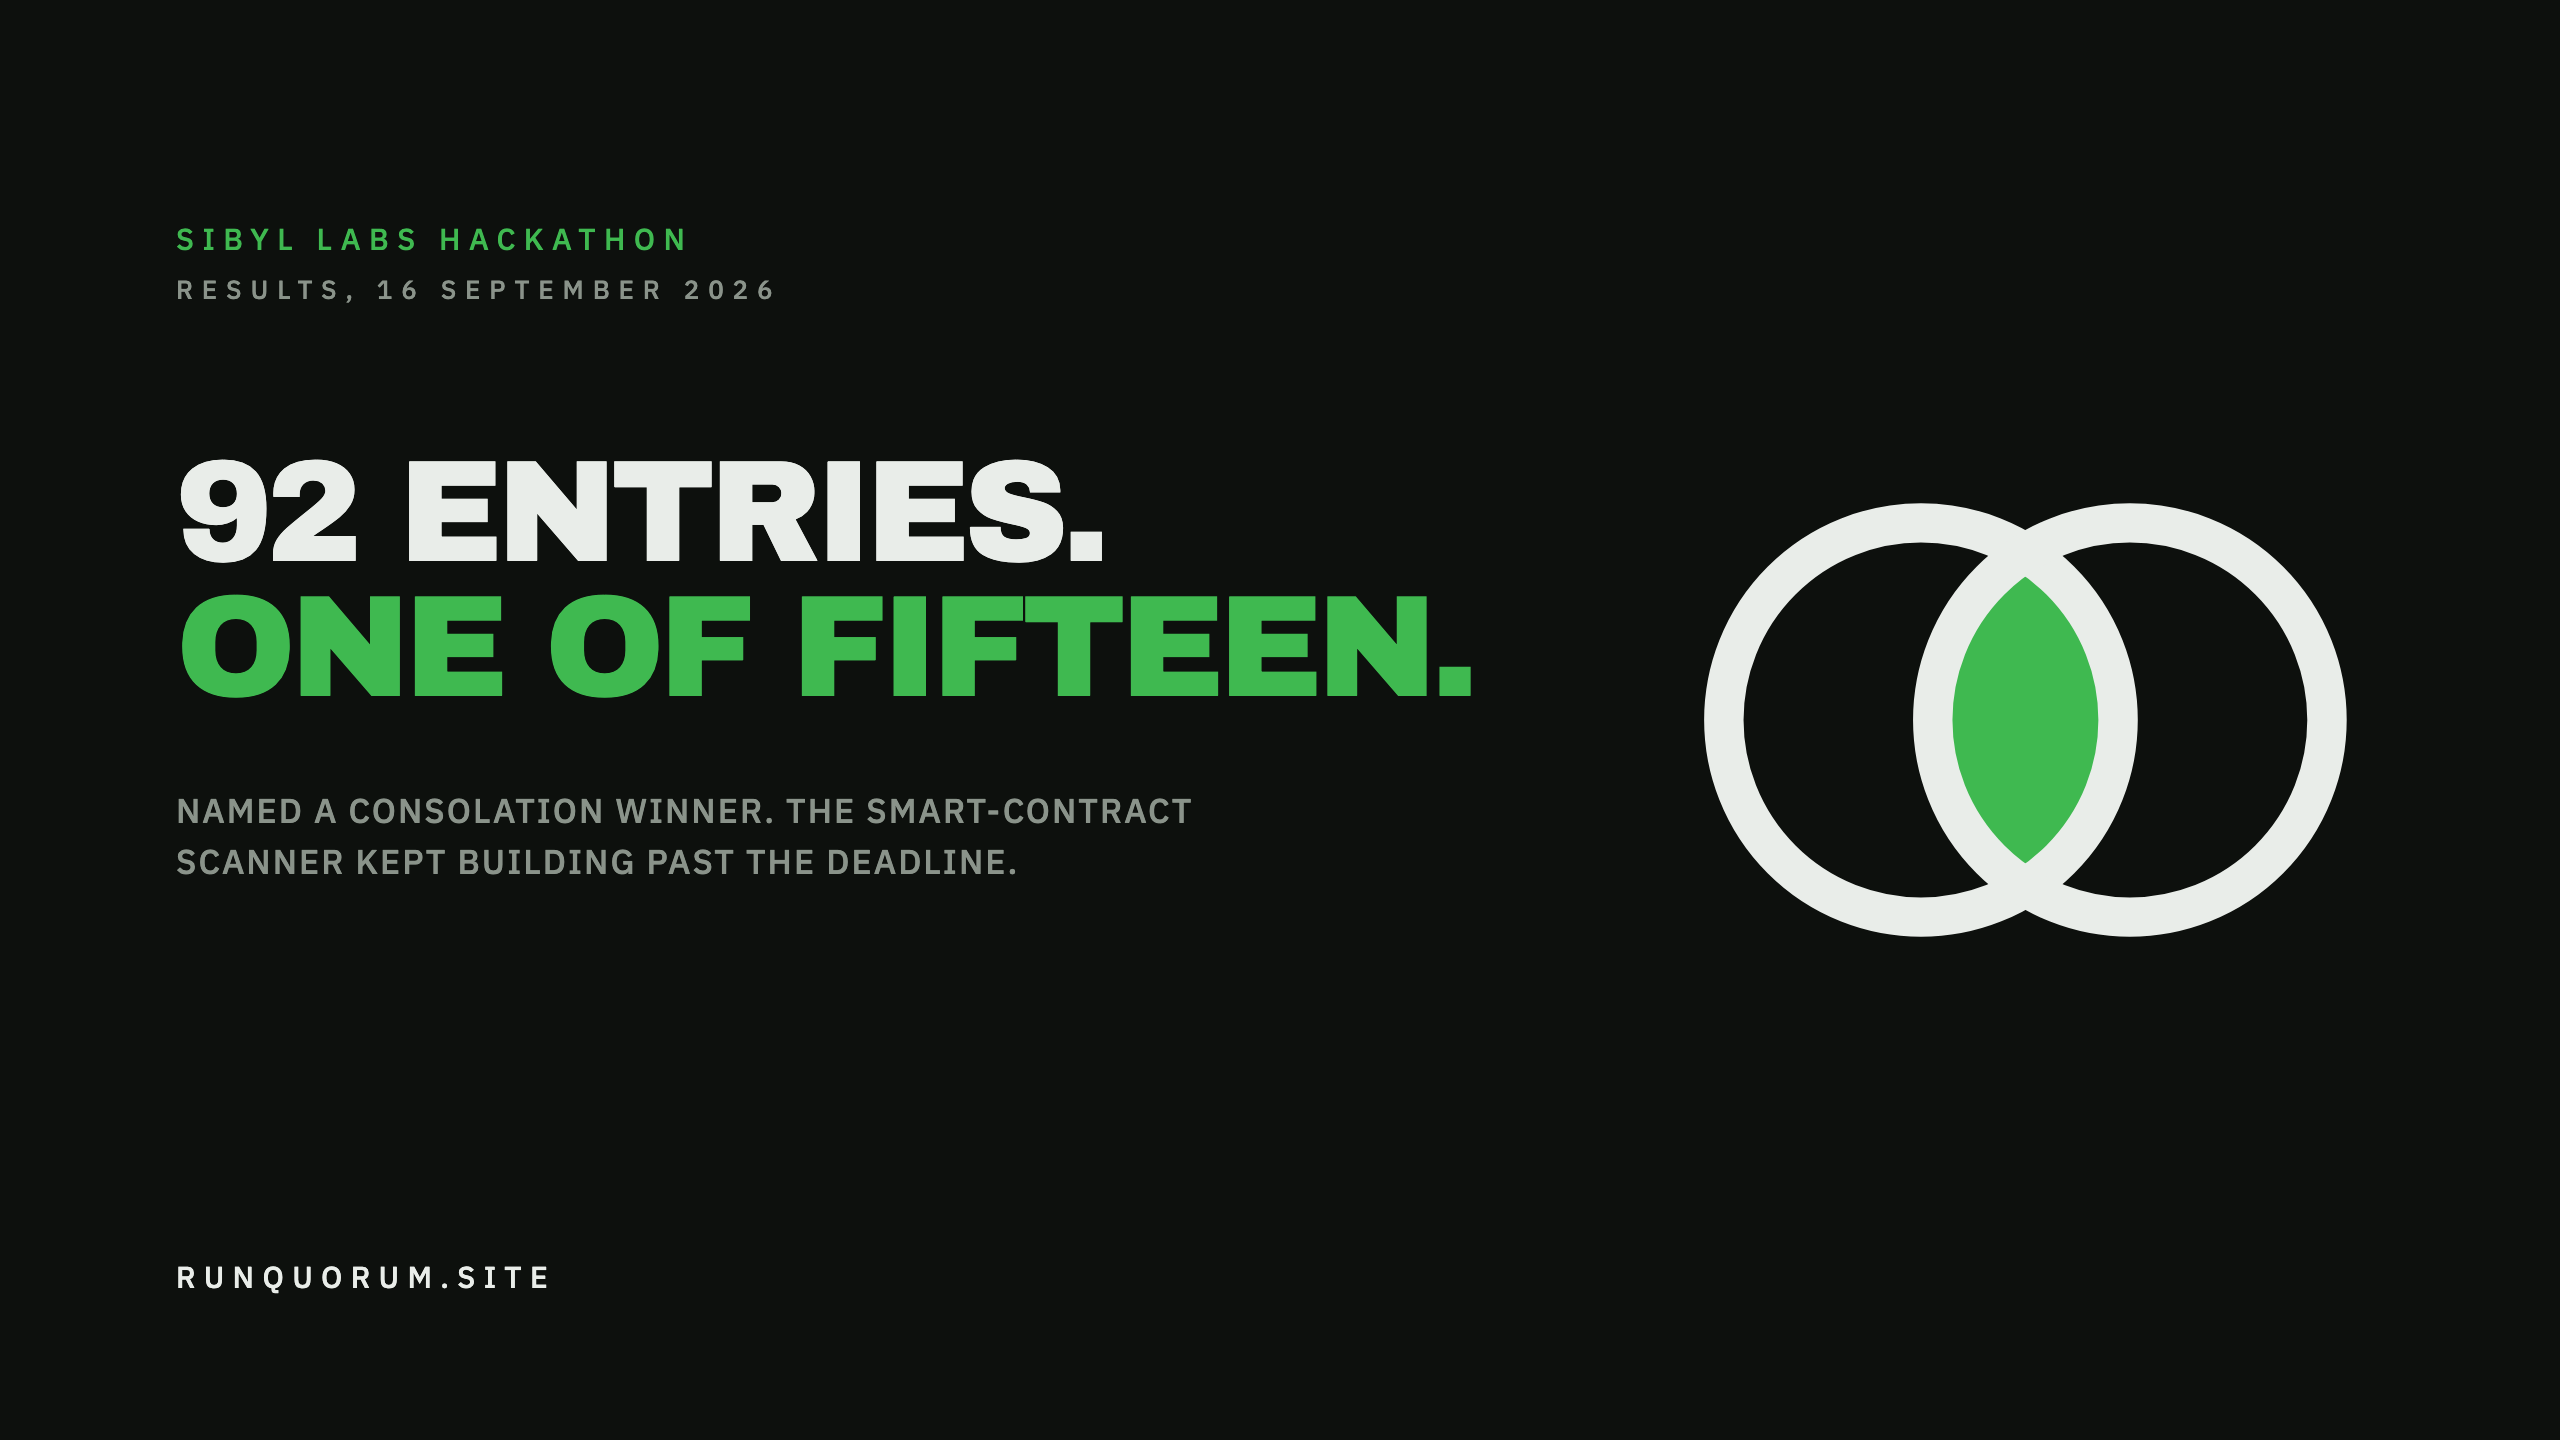
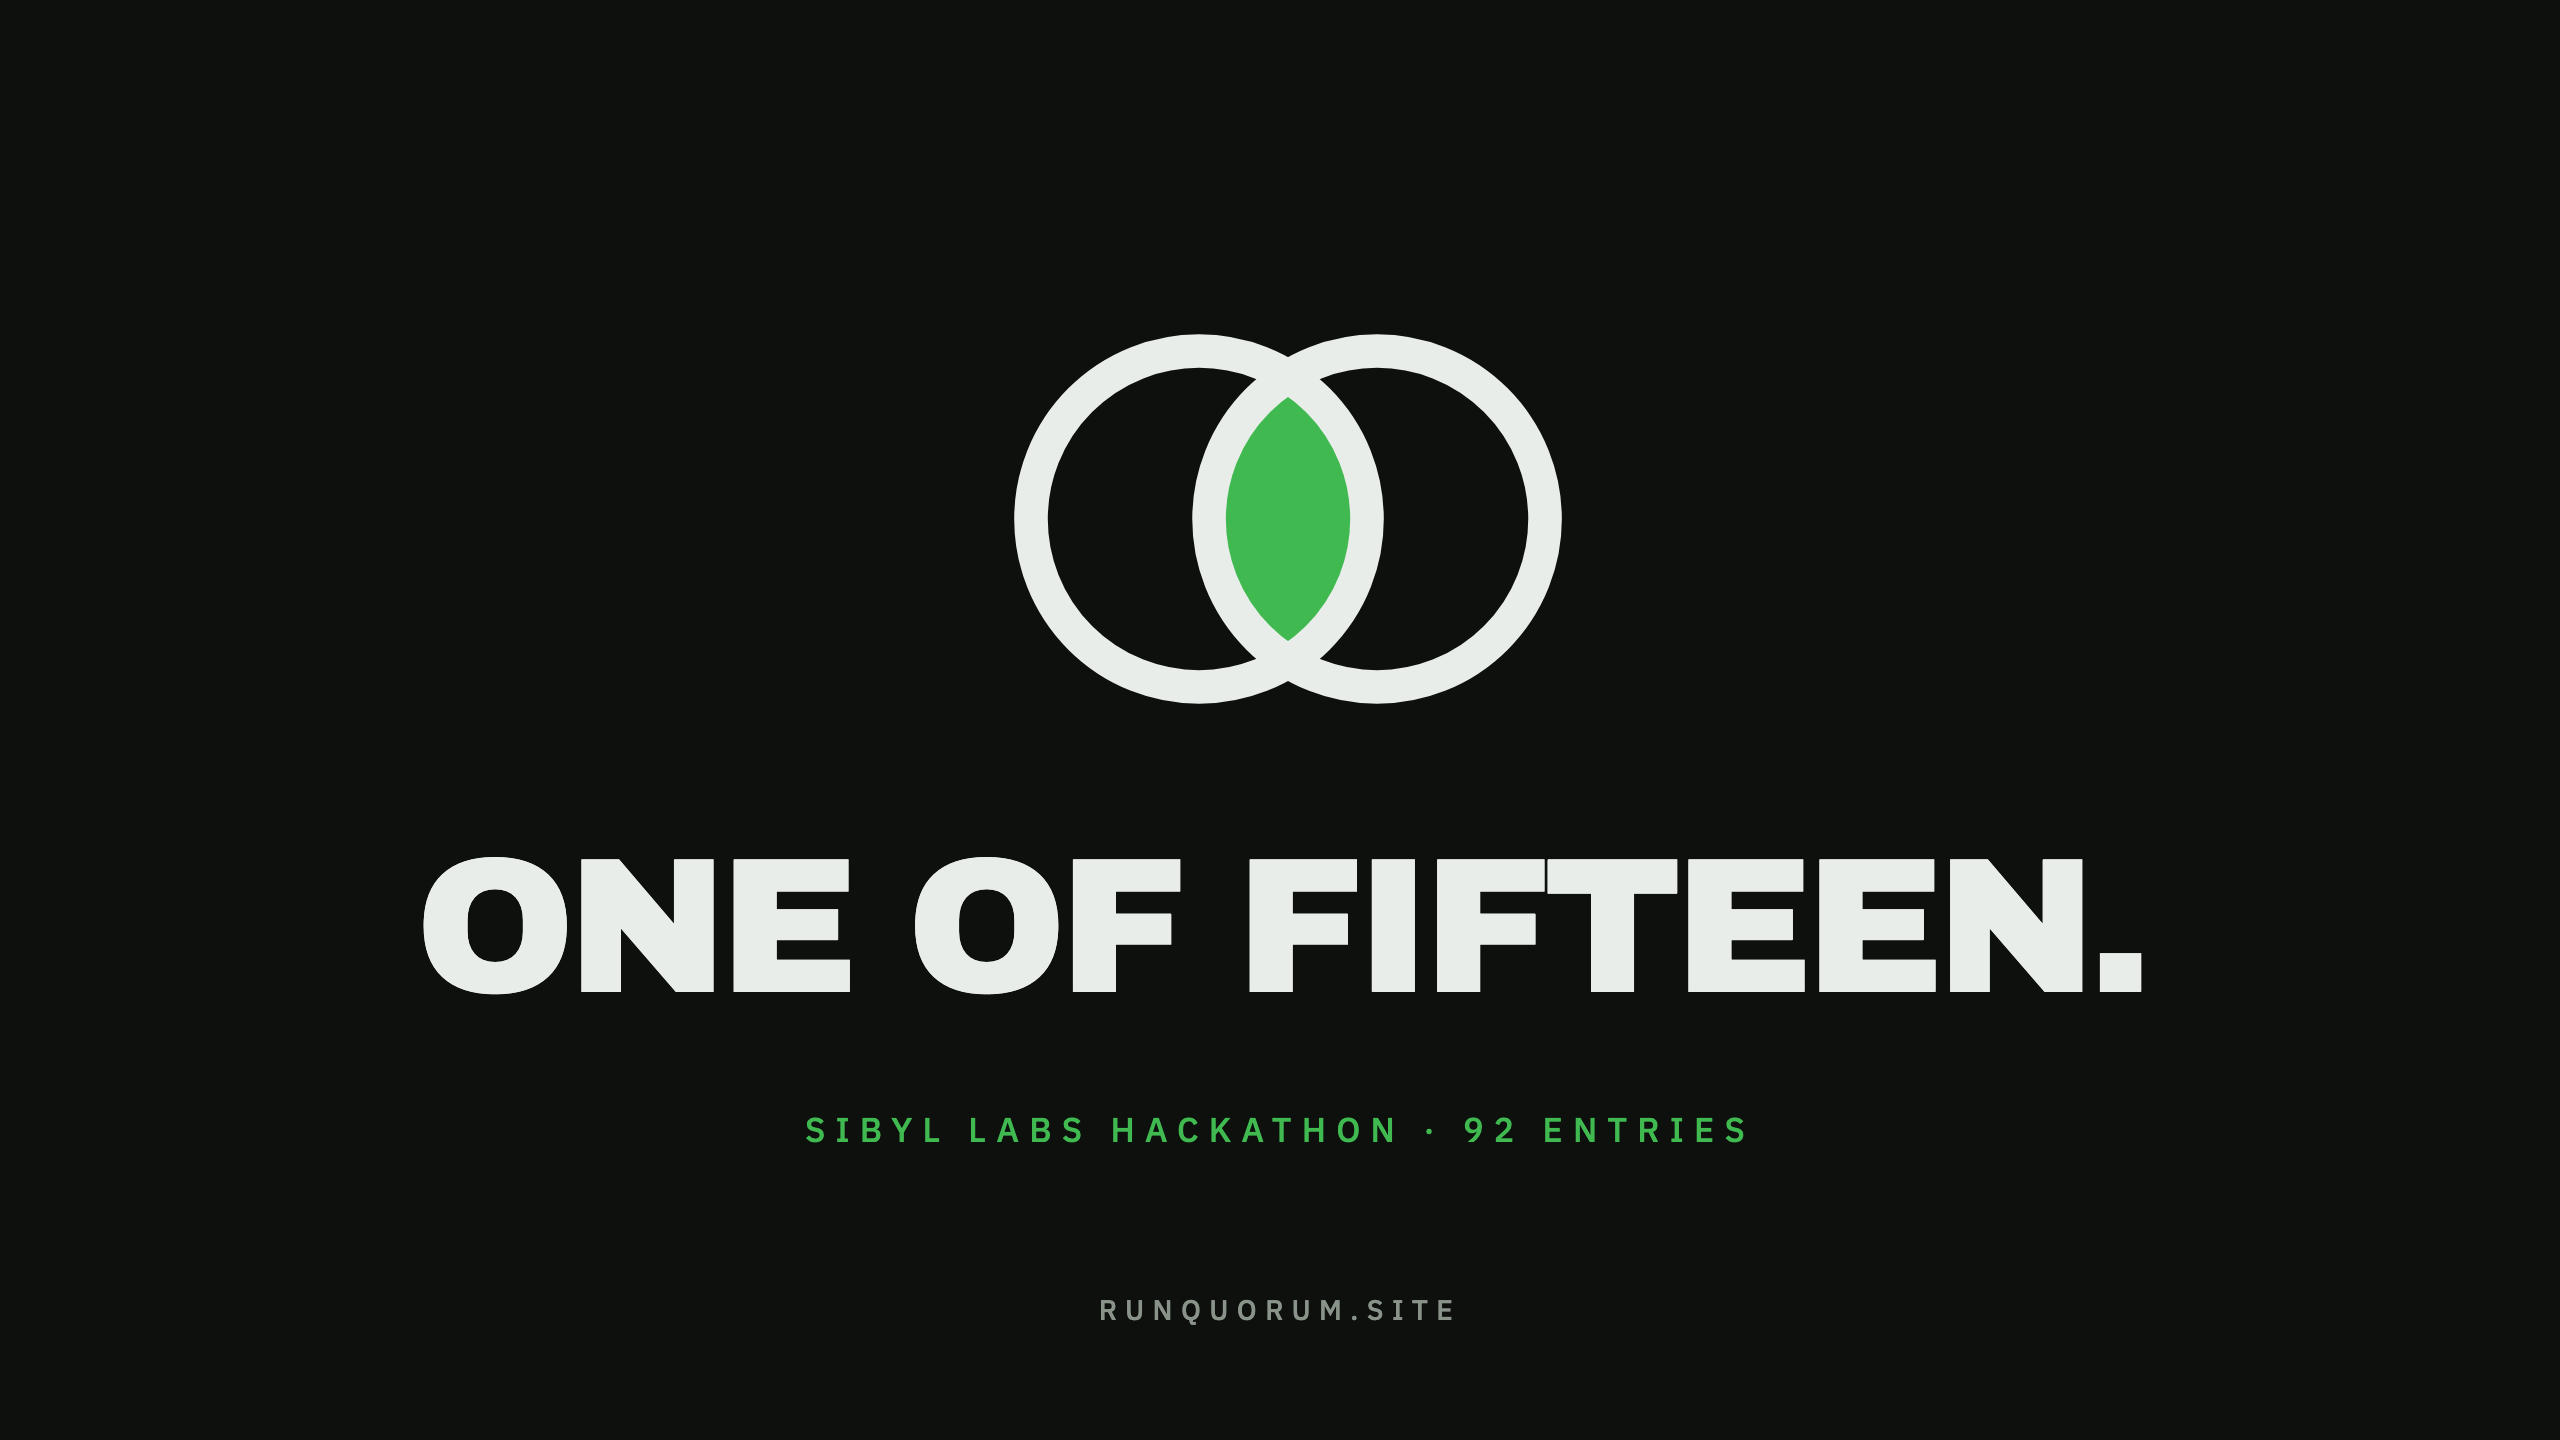
Brand: result card, one line

diff --git a/brand/post-sibyl-result.html b/brand/post-sibyl-result.html
@@ -9,31 +9,16 @@
   :root { --dark: #0d100d; --paper: #e9ede9; --green: #3fb950; --muted: #8a938a; }
   * { box-sizing: border-box; margin: 0; padding: 0; }
   html, body { width: 1280px; height: 720px; background: #0d100d; overflow: hidden; }
-  .card { position: relative; width: 1280px; height: 720px; background: var(--dark); overflow: hidden; }
-  .copy { position: absolute; left: 88px; top: 112px; width: 700px; z-index: 3; }
-  .kicker { font-family: "IBM Plex Sans", sans-serif; font-weight: 500; font-size: 15px; letter-spacing: 0.28em; color: var(--green); text-transform: uppercase; line-height: 1; }
-  .status { margin-top: 11px; font-family: "IBM Plex Sans", sans-serif; font-weight: 500; font-size: 13px; letter-spacing: 0.34em; color: var(--muted); text-transform: uppercase; line-height: 1; }
-  h1 { margin-top: 72px; font-family: "Archivo Black", sans-serif; font-weight: 400; font-size: 72px; line-height: 0.94; letter-spacing: -0.04em; color: var(--paper); text-transform: uppercase; white-space: nowrap; }
-  h1 span { display: block; }
-  h1 .green { color: var(--green); }
-  .amount { margin-top: 34px; font-family: "IBM Plex Sans", sans-serif; font-weight: 500; font-size: 17px; letter-spacing: 0.06em; color: var(--muted); text-transform: uppercase; line-height: 1.5; max-width: 560px; }
-  .site { position: absolute; left: 88px; bottom: 72px; font-family: "IBM Plex Sans", sans-serif; font-weight: 500; font-size: 15px; letter-spacing: 0.28em; color: var(--paper); text-transform: uppercase; }
-  .art { position: absolute; right: 96px; top: 50%; transform: translateY(-50%); width: 352px; height: 264px; z-index: 2; }
+  .card { position: relative; width: 1280px; height: 720px; background: var(--dark); display: flex; flex-direction: column; align-items: center; justify-content: center; gap: 44px; }
+  .art { width: 300px; height: 225px; }
   .art svg { width: 100%; height: 100%; display: block; }
+  h1 { font-family: "Archivo Black", sans-serif; font-weight: 400; font-size: 96px; line-height: 1; letter-spacing: -0.04em; color: var(--paper); text-transform: uppercase; white-space: nowrap; }
+  .sub { font-family: "IBM Plex Sans", sans-serif; font-weight: 500; font-size: 17px; letter-spacing: 0.3em; color: var(--green); text-transform: uppercase; line-height: 1; }
+  .site { position: absolute; bottom: 56px; left: 0; right: 0; text-align: center; font-family: "IBM Plex Sans", sans-serif; font-weight: 500; font-size: 14px; letter-spacing: 0.3em; color: var(--muted); text-transform: uppercase; }
 </style>
 </head>
 <body>
   <article class="card">
-    <div class="copy">
-      <div class="kicker">Sibyl Labs Hackathon</div>
-      <div class="status">results, 16 september 2026</div>
-      <h1>
-        <span>92 entries.</span>
-        <span class="green">One of fifteen.</span>
-      </h1>
-      <div class="amount">Named a consolation winner. The smart-contract scanner kept building past the deadline.</div>
-    </div>
-    <div class="site">runquorum.site</div>
     <div class="art" aria-hidden="true">
       <svg viewBox="0 0 400 300" xmlns="http://www.w3.org/2000/svg">
         <defs><clipPath id="l"><circle cx="146" cy="150" r="112"/></clipPath></defs>
@@ -42,6 +27,9 @@
         <circle cx="264.7" cy="150" r="112" fill="none" stroke="#e9ede9" stroke-width="22.4"/>
       </svg>
     </div>
+    <h1>One of fifteen.</h1>
+    <div class="sub">Sibyl Labs Hackathon &middot; 92 entries</div>
+    <div class="site">runquorum.site</div>
   </article>
 </body>
 </html>
